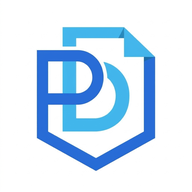
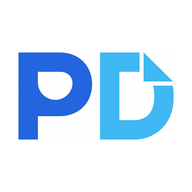
chore: update application assets
Update icons and add new logo assets for better visual consistency.

diff --git a/index.html b/index.html
@@ -6,7 +6,7 @@
 <meta name="theme-color" content="#2563eb">
 <meta name="color-scheme" content="light dark">
 <script>(function(){try{var st=JSON.parse(localStorage.getItem("prd_settings")||"{}");var t=st.theme||"auto";var d=t==="dark"||(t==="auto"&&window.matchMedia&&window.matchMedia("(prefers-color-scheme: dark)").matches);if(t==="dark"||(t==="auto"&&d))document.documentElement.setAttribute("data-theme","dark");else if(t==="light")document.documentElement.setAttribute("data-theme","light");}catch(e){}})();</script>
-<link rel="icon" href="icon-192.png">
+<link rel="icon" type="image/png" href="icon-192.png">
 <link rel="apple-touch-icon" href="icon-192.png">
 <meta name="apple-mobile-web-app-capable" content="yes">
 <link rel="preconnect" href="https://fonts.googleapis.com">
@@ -360,7 +360,7 @@ button.hpill:hover{background:color-mix(in srgb,var(--acc) 12%,var(--soft));bord
 </style></head><body>
 <div class="app">
 <aside id="drawer" aria-label="Menu">
-<div class="brand"><div class="logo" style="background:none;padding:0;overflow:hidden"><svg viewBox="0 0 64 64" style="width:100%;height:100%;display:block"><rect width="64" height="64" rx="14" fill="#ffffff"/><path d="M21 10h21l10 10v24a4 4 0 0 1-4 4H21V10Z" fill="none" stroke="#38bdf8" stroke-width="5.5" stroke-linejoin="round"/><path d="M42 10v10h10" fill="#38bdf8"/><path d="M12 18h17a10 10 0 0 1 0 20H12" fill="none" stroke="#2563eb" stroke-width="6" stroke-linecap="square" stroke-linejoin="round"/><path d="M12 18v26l20 11 20-11V22" fill="none" stroke="#2563eb" stroke-width="6" stroke-linejoin="round"/></svg></div><b>PocketDocs</b><button class="g sm ic" id="dclose" aria-label="Close menu">✕</button></div>
+<div class="brand"><div class="logo" style="background:#fff;padding:0;overflow:hidden"><img src="icon-192.png" alt="PocketDocs logo" style="width:100%;height:100%;object-fit:cover;display:block"></div><b>PocketDocs</b><button class="g sm ic" id="dclose" aria-label="Close menu">✕</button></div>
 <button class="me" id="me" type="button"><span class="av" id="av">?</span><span class="mt"><b id="mename">Guest</b><small id="mesub">Tap to set up your profile</small></span></button>
 <nav class="nav" aria-label="Main">
 <button data-v="home"><svg viewBox="0 0 24 24"><path d="M3 10.5 12 3l9 7.5"/><path d="M5 9.5V20h5v-6h4v6h5V9.5"/></svg>Home</button>
@@ -373,7 +373,7 @@ button.hpill:hover{background:color-mix(in srgb,var(--acc) 12%,var(--soft));bord
 <div id="scrim"></div>
 
 <div class="content" id="content">
-<header class="bar"><button class="g ic" id="menu" aria-controls="drawer" aria-label="Open menu"><svg viewBox="0 0 24 24" width="20" height="20" fill="none" stroke="currentColor" stroke-width="2" stroke-linecap="round"><path d="M4 7h16M4 12h16M4 17h16"/></svg></button><span class="bar-brand" id="bar_brand"><i style="background:none;padding:0;overflow:hidden"><svg viewBox="0 0 64 64" style="width:100%;height:100%;display:block"><rect width="64" height="64" rx="14" fill="#ffffff"/><path d="M21 10h21l10 10v24a4 4 0 0 1-4 4H21V10Z" fill="none" stroke="#38bdf8" stroke-width="5.5" stroke-linejoin="round"/><path d="M42 10v10h10" fill="#38bdf8"/><path d="M12 18h17a10 10 0 0 1 0 20H12" fill="none" stroke="#2563eb" stroke-width="6" stroke-linecap="square" stroke-linejoin="round"/><path d="M12 18v26l20 11 20-11V22" fill="none" stroke="#2563eb" stroke-width="6" stroke-linejoin="round"/></svg></i></span><button class="g sm" id="backhome" hidden>← Home</button><button class="g sm" id="backset" hidden>← Settings</button><h1 id="vtitle">Home</h1><button type="button" class="bar-av" id="bar_av" aria-label="Profile">?</button></header>
+<header class="bar"><button class="g ic" id="menu" aria-controls="drawer" aria-label="Open menu"><svg viewBox="0 0 24 24" width="20" height="20" fill="none" stroke="currentColor" stroke-width="2" stroke-linecap="round"><path d="M4 7h16M4 12h16M4 17h16"/></svg></button><span class="bar-brand" id="bar_brand"><i style="background:#fff;padding:0;overflow:hidden"><img src="icon-192.png" alt="PocketDocs" style="width:100%;height:100%;object-fit:cover;display:block"></i></span><button class="g sm" id="backhome" hidden>← Home</button><button class="g sm" id="backset" hidden>← Settings</button><h1 id="vtitle">Home</h1><button type="button" class="bar-av" id="bar_av" aria-label="Profile">?</button></header>
 <div id="tab_stage">
 <section class="view" id="v-home">
 <div class="home-hero"><div><p class="hello" id="hello">Welcome</p><p class="home-sub" id="home_sub" title="Tap to open tool"></p></div><div class="home-meta"><button type="button" class="hpill" id="home_docs">My documents</button><span class="hpill acc">Works offline</span></div><div class="tsearch"><svg viewBox="0 0 24 24"><circle cx="11" cy="11" r="7"/><path d="m21 21-4.3-4.3"/></svg><input id="tool_q" type="text" placeholder="Search 12 tools (e.g. print, ocr, sign, passport, lock, exif, invoice)…"><button type="button" id="tool_q_clr" aria-label="Clear search" hidden>✕</button></div></div>
@@ -793,7 +793,7 @@ button.hpill:hover{background:color-mix(in srgb,var(--acc) 12%,var(--soft));bord
 </section>
 </div>
 <footer class="site-foot" id="site_foot">
-<p class="sf-brand" style="display:flex;align-items:center;gap:10px"><span style="width:32px;height:32px;display:inline-block;flex:none;border-radius:9px;overflow:hidden;box-shadow:0 4px 12px -4px rgba(37,99,235,.4)"><svg viewBox="0 0 64 64" style="width:100%;height:100%;display:block"><rect width="64" height="64" rx="14" fill="#ffffff"/><path d="M21 10h21l10 10v24a4 4 0 0 1-4 4H21V10Z" fill="none" stroke="#38bdf8" stroke-width="5.5" stroke-linejoin="round"/><path d="M42 10v10h10" fill="#38bdf8"/><path d="M12 18h17a10 10 0 0 1 0 20H12" fill="none" stroke="#2563eb" stroke-width="6" stroke-linecap="square" stroke-linejoin="round"/><path d="M12 18v26l20 11 20-11V22" fill="none" stroke="#2563eb" stroke-width="6" stroke-linejoin="round"/></svg></span><span>PocketDocs<span>.</span></span></p>
+<p class="sf-brand" style="display:flex;align-items:center"><img src="logo.png" alt="PocketDocs" style="height:56px;width:auto;display:block;border-radius:12px;padding:6px 10px;background:#ffffff;box-shadow:0 4px 12px -4px rgba(37,99,235,.24)"></p>
 <p class="sf-tag" id="sf_tag">Client-side document, ID, PDF, and privacy utilities—running 100% locally in your browser with zero file uploads.</p>
 <div class="sf-cols" id="sf_cols"></div>
 <div class="sf-bot"><span>© 2026 PocketDocs. All rights reserved.</span><div class="sf-bot-links"><button type="button" data-v="meta">Privacy</button><button type="button" data-v="help">Support</button><button type="button" data-v="settings">Settings</button></div></div>

diff --git a/sw.js b/sw.js
@@ -1,4 +1,4 @@
-const C='docscan-v156',F=['./','index.html','manifest.webmanifest','icon-192.png','icon-512.png'];
+const C='docscan-v157',F=['./','index.html','manifest.webmanifest','icon-192.png','icon-512.png','logo.png'];
 self.addEventListener('install',e=>{e.waitUntil(caches.open(C).then(c=>Promise.all(F.map(u=>c.add(new Request(u,{cache:'reload'}))))).then(()=>self.skipWaiting()));});
 self.addEventListener('activate',e=>{e.waitUntil(caches.keys().then(k=>Promise.all(k.filter(x=>x!==C).map(x=>caches.delete(x)))).then(()=>self.clients.claim()));});
 self.addEventListener('message',e=>{if(e.data==='SKIP_WAITING')self.skipWaiting();});
